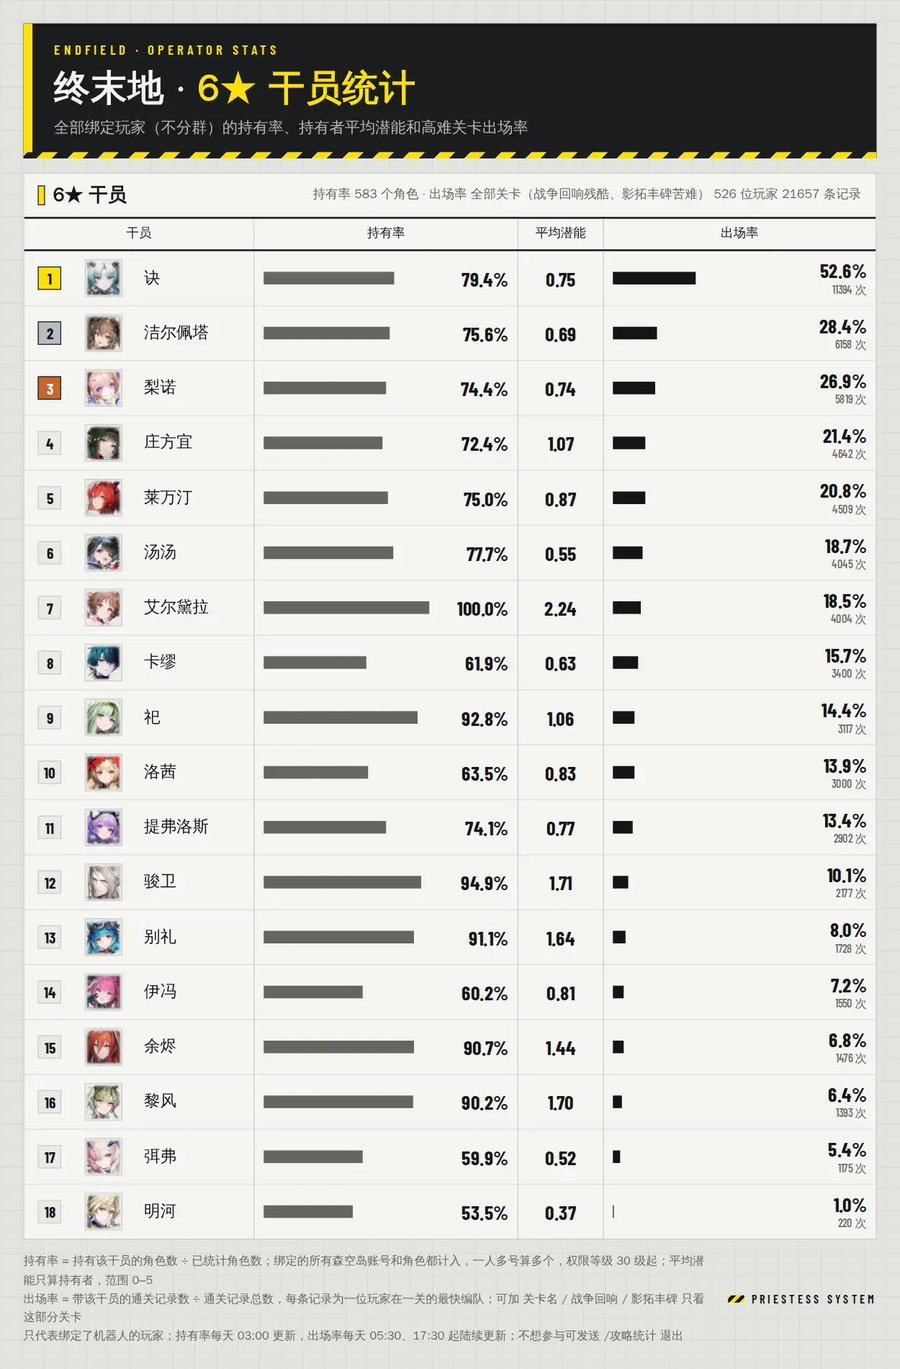
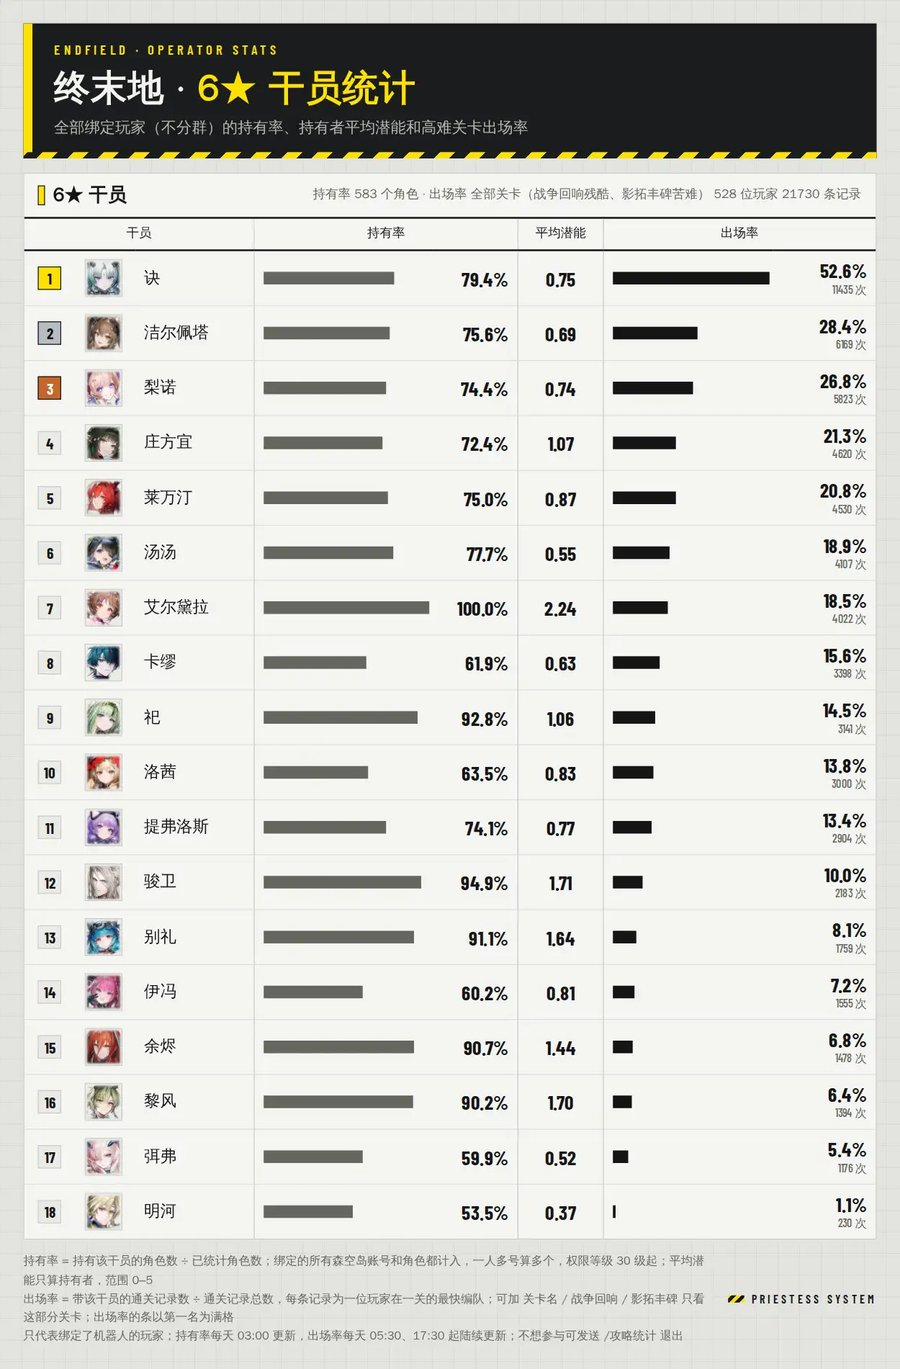
Scale /干员统计 usage bars to the most used operator

diff --git a/plugins/endfield_guide/__init__.py b/plugins/endfield_guide/__init__.py
@@ -737,7 +737,7 @@ STATS_LEFT_OUT = {"管理员"}  # everyone starts with the Endministrator: it sa
 STATS_USAGE = "用法：/干员统计 [关卡名 | 战争回响 | 影拓丰碑]"
 STATS_FOOT = (
     f"持有率 = 持有该干员的角色数 ÷ 已统计角色数；绑定的所有森空岛账号和角色都计入，一人多号算多个，权限等级 {HOLDING_MIN_LEVEL} 级起；平均潜能只算持有者，范围 0–5<br>"
-    "出场率 = 带该干员的通关记录数 ÷ 通关记录总数，每条记录为一位玩家在一关的最快编队；可加 关卡名 / 战争回响 / 影拓丰碑 只看这部分关卡<br>"
+    "出场率 = 带该干员的通关记录数 ÷ 通关记录总数，每条记录为一位玩家在一关的最快编队；可加 关卡名 / 战争回响 / 影拓丰碑 只看这部分关卡；出场率的条以第一名为满格<br>"
     "只代表绑定了机器人的玩家；持有率每天 03:00 更新，出场率每天 05:30、17:30 起陆续更新；不想参与可发送 /攻略统计 退出"
 )
 
@@ -771,6 +771,7 @@ async def _stats_body(roles: int, held: dict[str, tuple[int, float]], clears: in
         if owners or uses:
             rows.append((name, char_id, owners, potential, uses))
     rows.sort(key=lambda row: (-row[4], -row[2], -row[3], row[0]))
+    top = max((row[4] for row in rows), default=0)  # usage bars run to the most used operator: a clear has four, so no one gets near 100%
     cols = '<colgroup><col style="width:6%"><col style="width:7%"><col style="width:14%"><col style="width:21%"><col style="width:10%"><col style="width:10%"><col style="width:20%"><col style="width:12%"></colgroup>'
     cells = ['<tr class="hd"><td colspan="3">干员</td><td colspan="2" class="g">持有率</td><td class="g">平均潜能</td><td colspan="2" class="g">出场率</td></tr>']
     for i, (name, char_id, owners, potential, uses) in enumerate(rows, 1):
@@ -781,7 +782,7 @@ async def _stats_body(roles: int, held: dict[str, tuple[int, float]], clears: in
             f'<tr><td class="rk">{_rank(i)}</td><td class="ic">{f"<img src={chr(34)}{escape(src)}{chr(34)}>" if src else ""}</td><td class="nm">{escape(name)}</td>'
             f'<td class="bw g"><div class="bar own" style="width:{max(1, own):.0f}%"></div></td><td class="pc">{f"{own:.1f}%" if roles else "—"}</td>'
             f'<td class="pt g">{f"{potential:.2f}" if owners else "—"}</td>'
-            f'<td class="bw g"><div class="bar" style="width:{max(1, use):.0f}%"></div></td>'
+            f'<td class="bw g"><div class="bar" style="width:{max(1, uses / top * 100) if top else 1:.0f}%"></div></td>'
             f'<td class="pc">{f"{use:.1f}%" if clears else "—"}<small>{f"{uses} 次" if clears else ""}</small></td></tr>'
         )
     note = f"持有率 {roles} 个角色 · 出场率 {escape(scope)} {players} 位玩家 {clears} 条记录"
